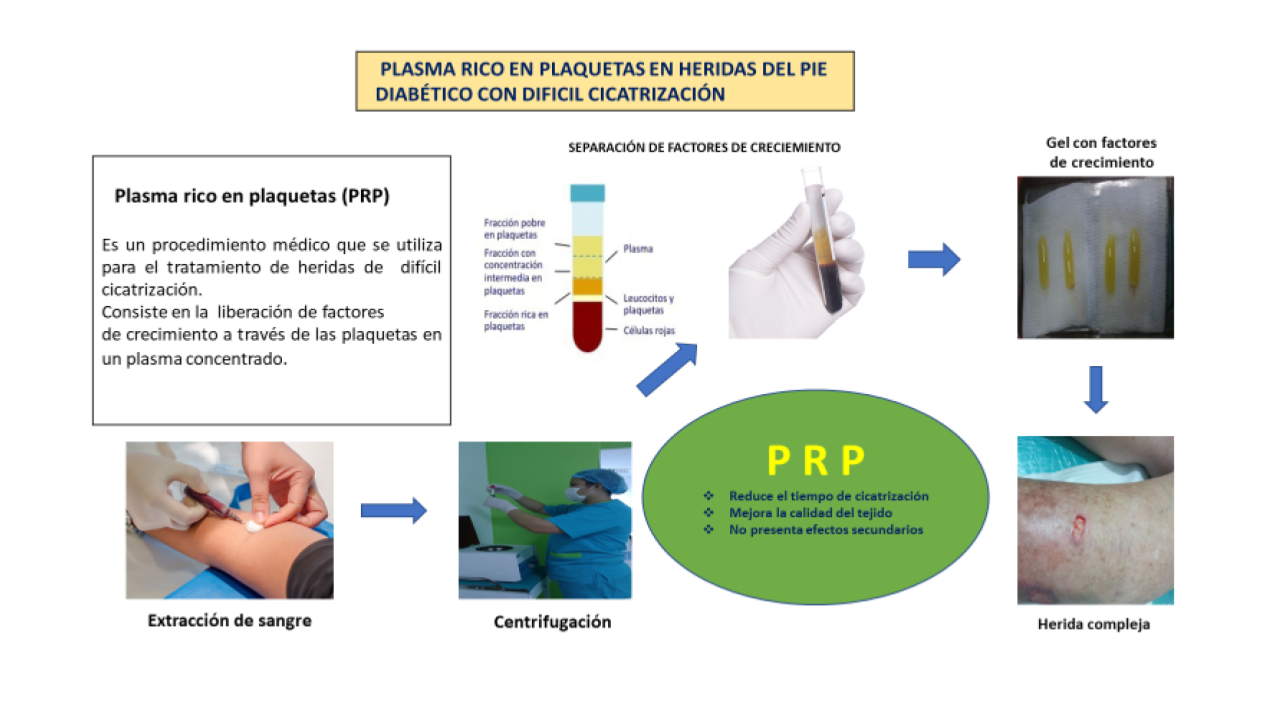
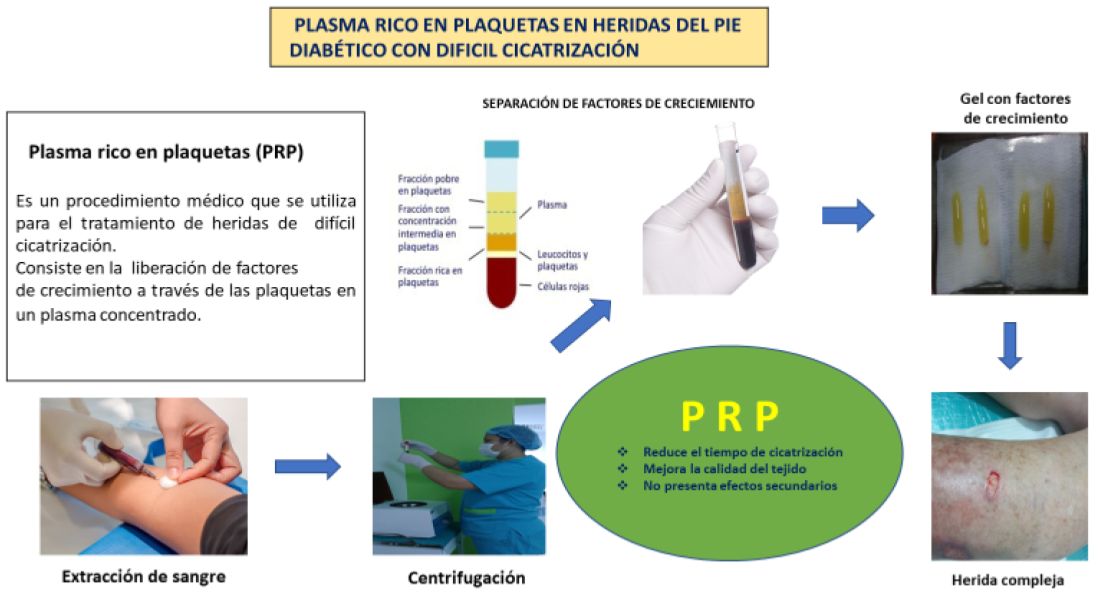
optimizar imagenes

diff --git a/webPieDiabetico/tratamiento.php b/webPieDiabetico/tratamiento.php
@@ -75,7 +75,7 @@
   </div>
 </div>
 
-<!-- The Modal1 -->
+<!-- The Modal1 Ozonoterapia -->
 <div class="modal" id="myModal">
   <div class="modal-dialog">
     <div class="modal-content">
@@ -88,7 +88,7 @@
 
       <!-- Modal1 body -->
       <div class="modal-body text-center">
-        <img src="/img/Tratamiento/ozonoterapia.png" style="height: 72vh;">
+        <img src="/img/Tratamiento/ozonoterapia.jpg" style="height: 72vh;">
       </div>
 
     </div>
@@ -108,7 +108,7 @@
 
       <!-- Modal1 body -->
       <div class="modal-body text-center">
-        <img src="/img/Tratamiento/aceiite.png" style="height: 72vh;">
+        <img src="/img/Tratamiento/aceiite.jpg" style="height: 72vh;">
       </div>
 
     </div>
@@ -128,7 +128,7 @@
 
       <!-- Modal1 body -->
       <div class="modal-body text-center">
-        <img src="/img/Tratamiento/sistemaVacio.png" style="height: 70vh;">
+        <img src="/img/Tratamiento/sistemaVacio.jpg" style="height: 72vh;">
       </div>
 
     </div>
@@ -148,7 +148,7 @@
 
       <!-- Modal1 body -->
       <div class="modal-body text-center">
-        <img src="/img/Tratamiento/podologia.png" style="height: 70vh;">
+        <img src="/img/Tratamiento/podologia.png" style="height: 72vh;">
       </div>
 
     </div>
@@ -168,7 +168,7 @@
 
       <!-- Modal1 body -->
       <div class="modal-body text-center">
-        <img src="/img/Tratamiento/ortopedia.png" style="height: 66vh;">
+        <img src="/img/Tratamiento/ortopedia.jpg" style="height: 72vh;">
       </div>
 
     </div>
@@ -188,7 +188,7 @@
 
       <!-- Modal1 body -->
       <div class="modal-body text-center">
-        <img src="/img/Tratamiento/plasmaPlaquetas.png" style="height: 70vh;">
+        <img src="/img/Tratamiento/plasmaPlaquetas.png" style="height: 72vh;">
       </div>
 
     </div>
@@ -208,7 +208,7 @@
 
       <!-- Modal1 body -->
       <div class="modal-body text-center">
-        <img src="/img/Tratamiento/cremaHidratante.png" style="height: 70vh;">
+        <img src="/img/Tratamiento/cremaHidratante.jpg" style="height: 72vh;">
       </div>
 
     </div>

diff --git a/webPieDiabetico/evaluacion.php b/webPieDiabetico/evaluacion.php
@@ -171,7 +171,7 @@
         <img src="/img/evaluacion/exTer1.png" class="img-radius d-block img-size1">
       </div>
       <div class="carousel-item">
-        <img src="/img/evaluacion/exTer1.png" class="img-radius d-block img-size1">
+        <img src="/img/evaluacion/exTer2.png" class="img-radius d-block img-size1">
       </div>
     </div>
 
@@ -194,7 +194,10 @@
   <div class="navbar justify-content-center col-md-6">
                   <div>
                     <h3>Evaluación Neurológico</h3>
-                    <div></div>
+                    <div>Para identificar la disminución o pérdida de la sensibilidad del dolor, vibración o temperatura.
+ La disminución de la sensibilidad del dolor es la causa principal de no poder percibir una herida
+ ocasionada por un traumatismo leve y ser el inicio de una herida que puede evolucionar hasta
+  llegar a una amputación del pie.</div>
                   </div>
       </div>
   <div class="col-md-6">

diff --git a/webPieDiabetico/casostratados.php b/webPieDiabetico/casostratados.php
@@ -382,7 +382,7 @@
                     <div>Diabetes de 25 años</div>
                     <div>Diagnóstico : Absceso de zona plantar</div>
                     <div>Tratamiento: Limpieza quirúrgica + Antibióticos</div>
-                    <div>Tiempo de cierre : 25 días.</div>
+                    <div>Tiempo de cierre : 25 semanas.</div>
                   </div>
                 </div>
             </div>
